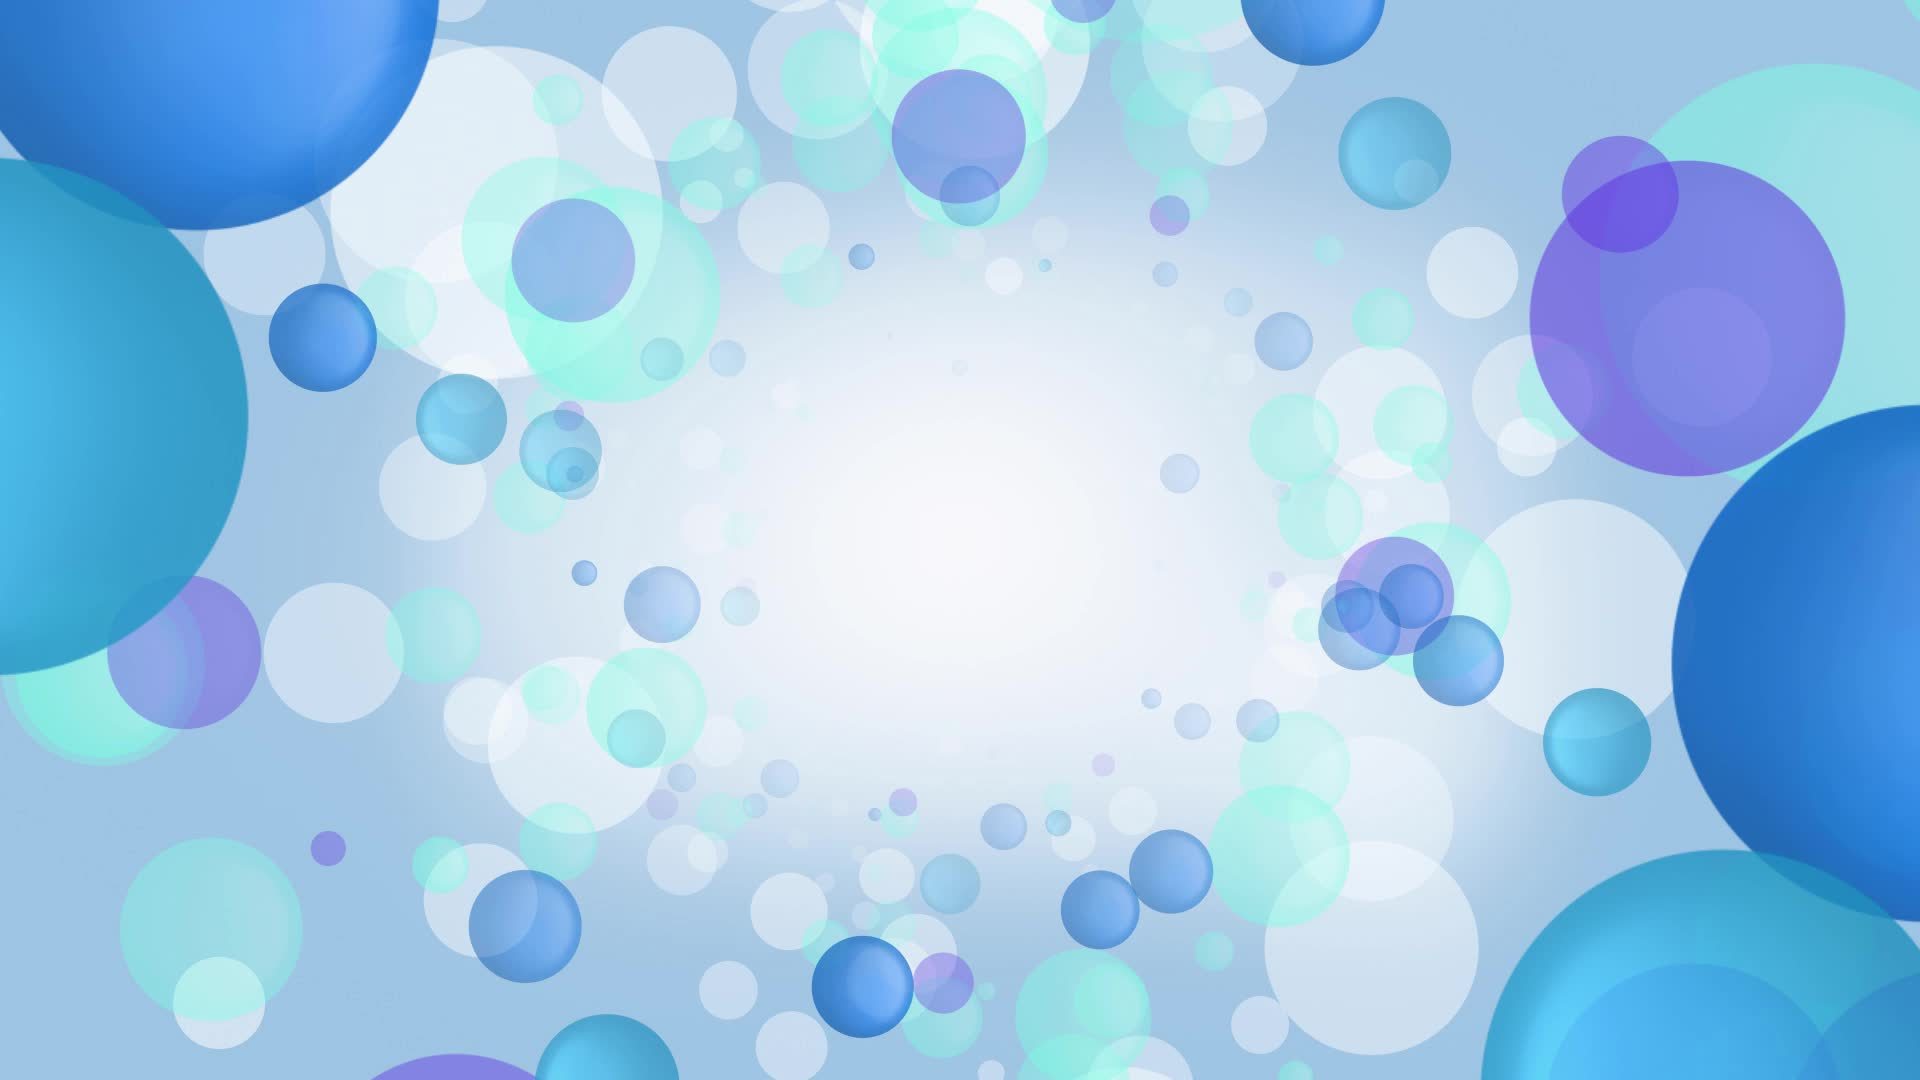
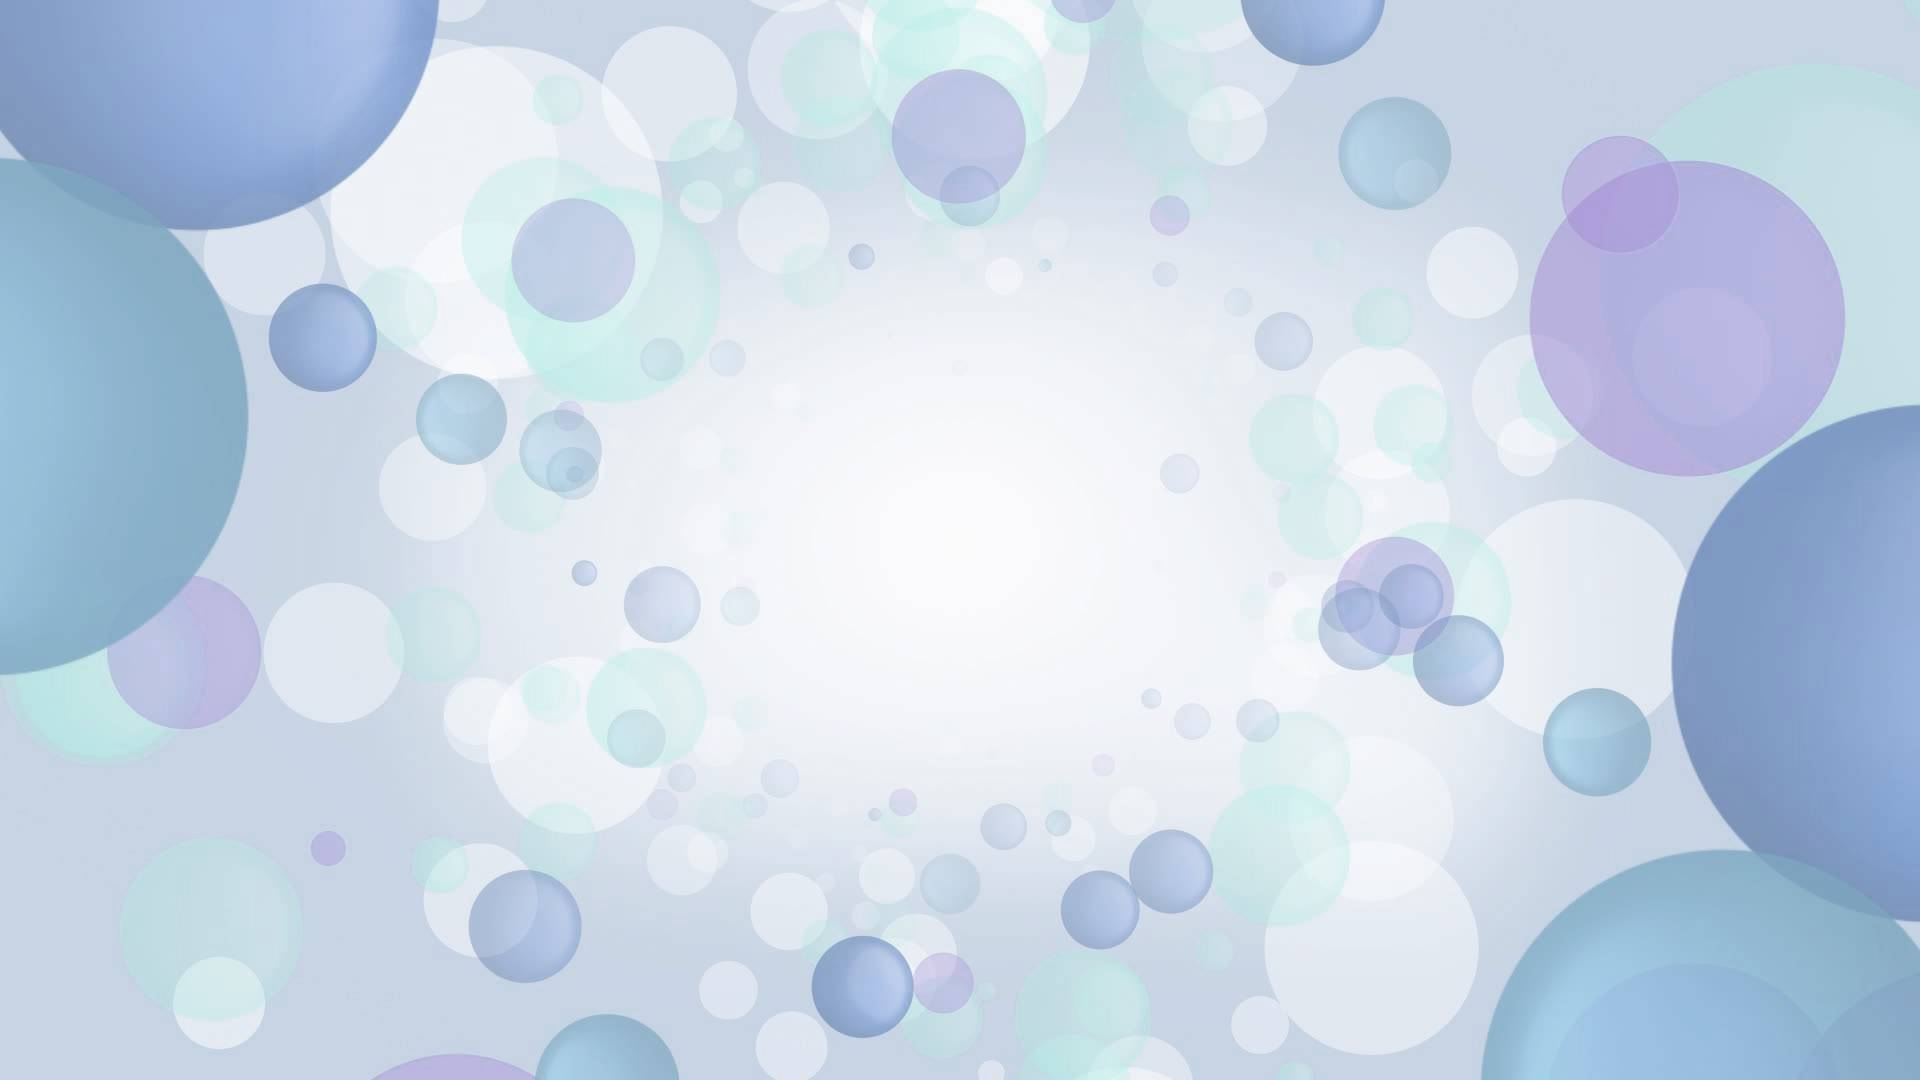
cambio fondo. color menos intenso

diff --git a/index.js b/index.js
@@ -20,10 +20,8 @@ let indexColumna = null // determina el elemento dentro del array -- casillero[i
 ///Función que se activa al clickar en una columna (onclick en HTML) y recibe el parametro idColumna, diferente según la columna
 function checkCasilla(idColumna){ 
     efectoSonido();
-    setIndex(idColumna);
-    if(casillero[indexFila][indexColumna] != "ROJO" && casillero[indexFila][indexColumna] != "AMARILLO"){   
-        soltarFicha(idColumna);   
-    }
+    setIndex(idColumna); 
+    soltarFicha(idColumna);   
 }
 
 //Funcion para conocer, dado el idColumna, el parametro indexFila correspondiente.
@@ -92,7 +90,7 @@ function soltarFicha(idColumna){
     }
 }
 
-//Función para modificar el color de la casilla. El contenido del casillero es igual al id en HTML, así modificamos el color.
+//Función para modificar el color de la casilla. El contenido del casillero es igual al id en HTML, así modificamos el color. + modificar array casillero
 function asignarColor(){
     let casilla = casillero[indexFila][indexColumna];
     let casillaHTML = document.getElementById(casilla)
